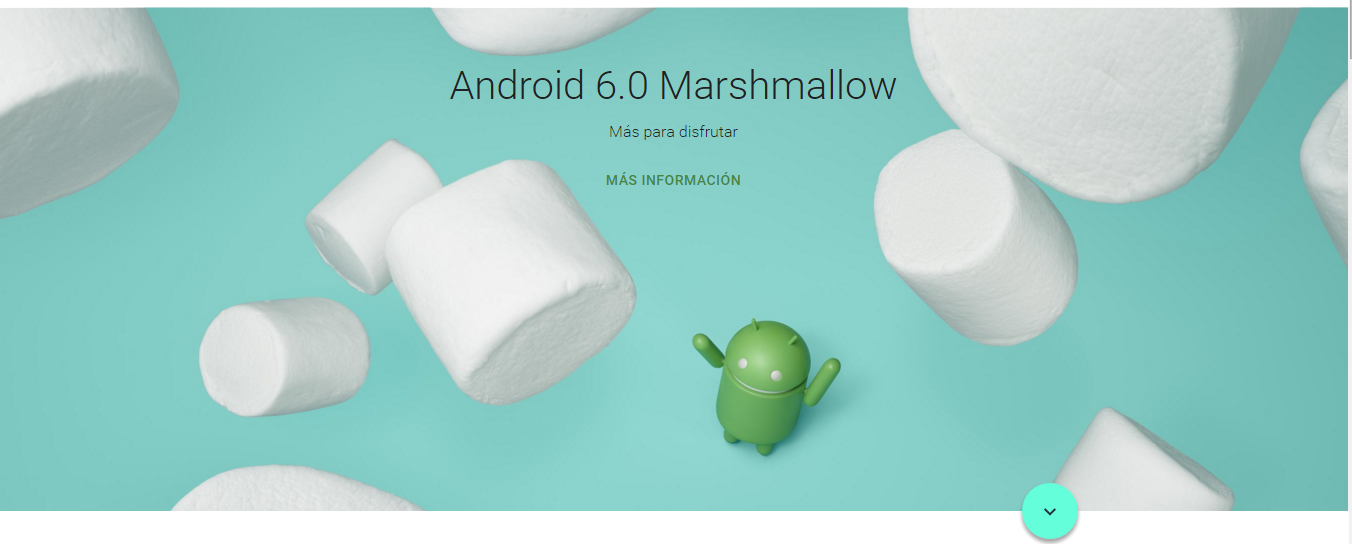
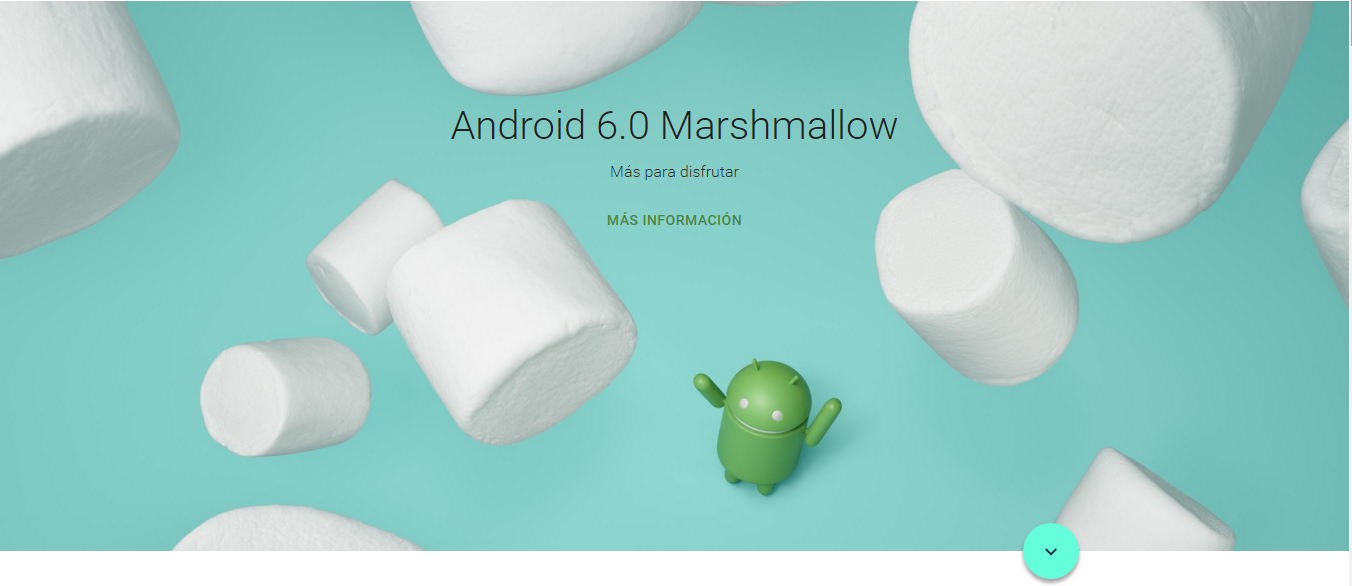
Proyecto página android

diff --git a/index.html b/index.html
@@ -1,0 +1,162 @@
+<!DOCTYPE html>
+<html lang="es">
+<head>
+    <meta charset="UTF-8">
+    <title>Android</title>
+    <link rel="stylesheet" href="css/estilos.css">
+</head>
+<body>
+   <header>
+       	<a href="#">
+            <img src="img/logo.png" alt="" class="logo">
+		</a>
+
+        <img src="img/menu.png" alt="" class="menu">
+   </header>
+    <section class="s1">
+        <img src="img/s1.png" alt="" class="img1">
+    </section>
+
+    <section class="s2">
+        <div class="div21">
+            <p class="txt21">
+                Tecnología para pantallas de todos los tamaños
+            </p>
+        </div>
+
+        <div class="div22">
+            <p class="txt22">
+                Android es un sistema operativo fácil de usar que puede personalizarse. Se utiliza en más de mil millones de dispositivos de todo el mundo, desde teléfonos y tablets hasta relojes, televisiones y automóviles... Y todavía queda mucho por descubrir.
+            </p>
+        </div>
+        <img src="img/s2.png" alt="" class="img2">
+    </section>
+
+    <section class="s3">
+       <div class="div31">
+             <img src="img/s3.png" alt="" class="img3">
+       </div>
+    </section>
+
+    <section class="s4">
+          <div class="div4">
+            <p class="txt41">
+                Lo mejor de Google integrado
+            </p>
+            <p class="txt42">
+                Android funciona a la perfección con tus aplicaciones preferidas, como Google Maps, Calendario, Gmail y YouTube.
+            </p>
+            <p class="txt43">
+                <b>VER NOVEDADES ></b>
+            </p>
+        </div>
+    </section>
+
+    <section class="s5">
+        <div class="div51">
+            <p class="txt51">Personalizado por ti, para ti</p>
+        </div>
+        <div class="div52">
+            <p class="txt52">
+                Coloca todo lo importante directamente en la pantalla principal: las últimas noticias, el clima o una secuencia de tus fotos más recientes.
+            </p>
+        </div>
+        <div class="div53">
+            <p class="txt53">Personaliza tu teléfono</p>
+        </div>
+        <div class="div54">
+            <img src="img/s4.png" alt="" class="img5">
+        </div>
+    </section>
+
+    <section class="s6">
+        <div class="div61">
+            <p class="txt6">
+                Más de Android
+            </p>
+        </div>
+        <div class="div62">
+            <table class="tabla">
+                <tr class="fila1">
+                    <td><img src="img/s51.png" alt="" class="img61"></td>
+                    <td>
+                         <img src="img/s52.png" alt="" class="img62">
+                    </td>
+                    <td>
+                        <img src="img/s53.png" alt="" class="img63">
+                    </td>
+                    <td>
+                        <img src="img/s54.png" alt="" class="img64">
+                    </td>
+                </tr>
+                <tr class="fila2">
+                    <td>
+                        <p class="txt61">
+                            Ponte en marcha con Android
+                        </p>
+                        <p class="txt611">
+                            Cuatro sugerencias para que tu cambio a Android sea más rápido.
+                        </p>
+                    </td>
+                    <td>
+                        <p class="txt61">
+                           Crea tu propio personaje de Android
+                        </p>
+                        <p class="txt611">
+                            Transforma a la pequeña mascota verde de Android en ti, en tus amigos o en cualquier persona.
+                        </p>
+                    </td>
+                    <td>
+                        <p class="txt61">
+                            Obtén una pantalla principal personalizable y ordenada
+                        </p>
+                        <p class="txt611">
+                           Una pantalla principal prolija, simple y personalizable que ofrece la tecnología de Google Now, como alertas de tráfico, clima y mucho más, con solo deslizar el dedo por ella.
+                        </p>
+                    </td>
+                    <td>
+                        <p class="txt61">
+                            Millones de opciones para elegir
+                        </p>
+                        <p class="txt611">
+                          Parar un taxi, encontrar una receta o recorrer un templo: Google Play cuenta con todas las aplicaciones y los juegos que harán que tu dispositivo Android sea exclusivamente tuyo.
+                        </p>
+                    </td>
+                </tr>
+                <tr class="fila3">
+                    <td><p class="txtlink">HACER EL CAMBIO  ></p></td>
+                    <td><p class="txtlink">ANDROIDIFY.COM  ></p</td>
+                    <td><p class="txtlink">DESCARGAR AHORA ></p></td>
+                    <td><p class="txtlink">BUSCAR APLICACIONES ></p></td>
+                </tr>
+            </table>
+        </div>
+    </section>
+
+    <section class="s7">
+        <div class="div71">
+           <p class="txt71">Volver al principio</p>
+            <img src="img/redes.png" alt="" class="img71">
+        </div>
+        <div class="div72">
+            <p class="txt72">
+                Imágenes satelitales: © 2014 Astrium, DigitalGlobe
+            </p>
+        </div>
+        <div class="73">
+            <p class="txt73">
+               Es posible que algunas características y algunos dispositivos no estén disponibles en todas las áreas.
+            </p>
+        </div>
+        <div class="div81">
+            <img src="img/s7.png" alt="" class="img81">
+            <img src="img/s71.png" alt="" class="img82">
+        </div>
+        <div class="div82"></div>
+    </section>
+
+    <section class="s8">
+
+    </section>
+</body>
+</html>

diff --git a/css/estilos.css b/css/estilos.css
@@ -1,0 +1,198 @@
+header {
+	background-color: white;
+	height: 80px;
+	width: 100%;
+	left: 0;
+	top: 0;
+	position: fixed;
+}
+
+.logo{
+    padding:25px 35px;
+}
+
+.menu{
+    float: right;
+    padding: 25px 35px;
+}
+
+body{
+    width: 100%;
+    font-family: arial, Helvetica sans-serif;
+}
+
+.s1{
+
+}
+.img1{
+    width: 1380px;
+    height: 660px;
+}
+.div21{
+    text-align: center;
+    font-size: 37px;
+}
+
+.div22{
+    text-align: center;
+    font-size: 18px;
+}
+.txt22{
+    color: #616161;
+    margin-left: 400px;
+    margin-right: 370px;
+}
+
+.img2{
+    float: right;
+    padding-bottom: 80px;
+    padding-left: 140px;
+}
+.s3{
+
+
+}
+.div31{
+    height: 70%;
+}
+.img3{
+     width: 1380px;
+}
+
+.div4{
+     background-color: #2F4F4F;
+}
+.s4{
+
+}
+.txt41{
+    padding-left: 130px;
+    padding-top: 35px;
+    color: white;
+    font-size: 37px;
+    text-align: left;
+}
+
+.txt42{
+    padding-left: 130px;
+    padding-right: 450px;
+    color: white;
+    font-size: 20px;
+    text-align: left;
+}
+
+.txt43{
+    padding-left: 130px;
+    color: aqua;
+    font-size: 15px;
+    text-align: left;
+    padding-bottom: 35px;
+
+}
+
+.div51{
+    text-align: center;
+    font-size: 37px;
+}
+
+.div52{
+    text-align: center;
+    font-size: 17px;
+}
+
+.txt52{
+    color: #616161;
+    margin-left: 400px;
+    margin-right: 390px;
+}
+.div53{
+    text-align: center;
+    font-size: 14px;
+}
+
+.txt53{
+     color: green;
+    margin-left: 400px;
+    margin-right: 390px;
+}
+.img5{
+    background-color: #f7fbfa;
+}
+
+.div61{
+    text-align: left;
+    font-size: 37px;
+}
+
+.txt61{
+    padding-left: 20px;
+    font-size: 19px;
+}
+
+.txt611{
+    padding-left: 20px;
+    font-size: 15px;
+     color: #616161;
+}
+.div62{
+    padding-left: 110px;
+}
+table {
+   border-collapse:separate;
+   border-spacing: 20px 0px;
+}
+
+tr{
+    width: 244px;
+    height: 172px;
+}
+    th, td {
+       border:3px solid black;
+        width: 244px;
+        height: 172px;
+}
+
+.s7{
+    background-color: #F5F5F5;
+}
+.div71{
+    background-color: #F5F5F5;
+}
+
+.txt71{
+    padding-top: 25px;
+    padding-right: 45px;
+    text-align: right;
+    color: #616161;
+    font-size: 14px;
+}
+.img71{
+    padding-left: 28px;
+}
+
+.txt72{
+    padding-top: 25px;
+    padding-left: 45px;
+    text-align: left;
+    color: #616161;
+    font-size: 12px;
+}
+
+.txt73{
+    padding-top: 25px;
+    padding-left: 45px;
+    text-align: left;
+    color: #616161;
+    font-size: 12px;
+    padding-bottom: 20px;
+}
+
+.img81{
+    padding-left: 28px;
+    padding-bottom: 20px;
+}
+
+.img82{
+    padding-right: 48px;
+    float: right;
+}
